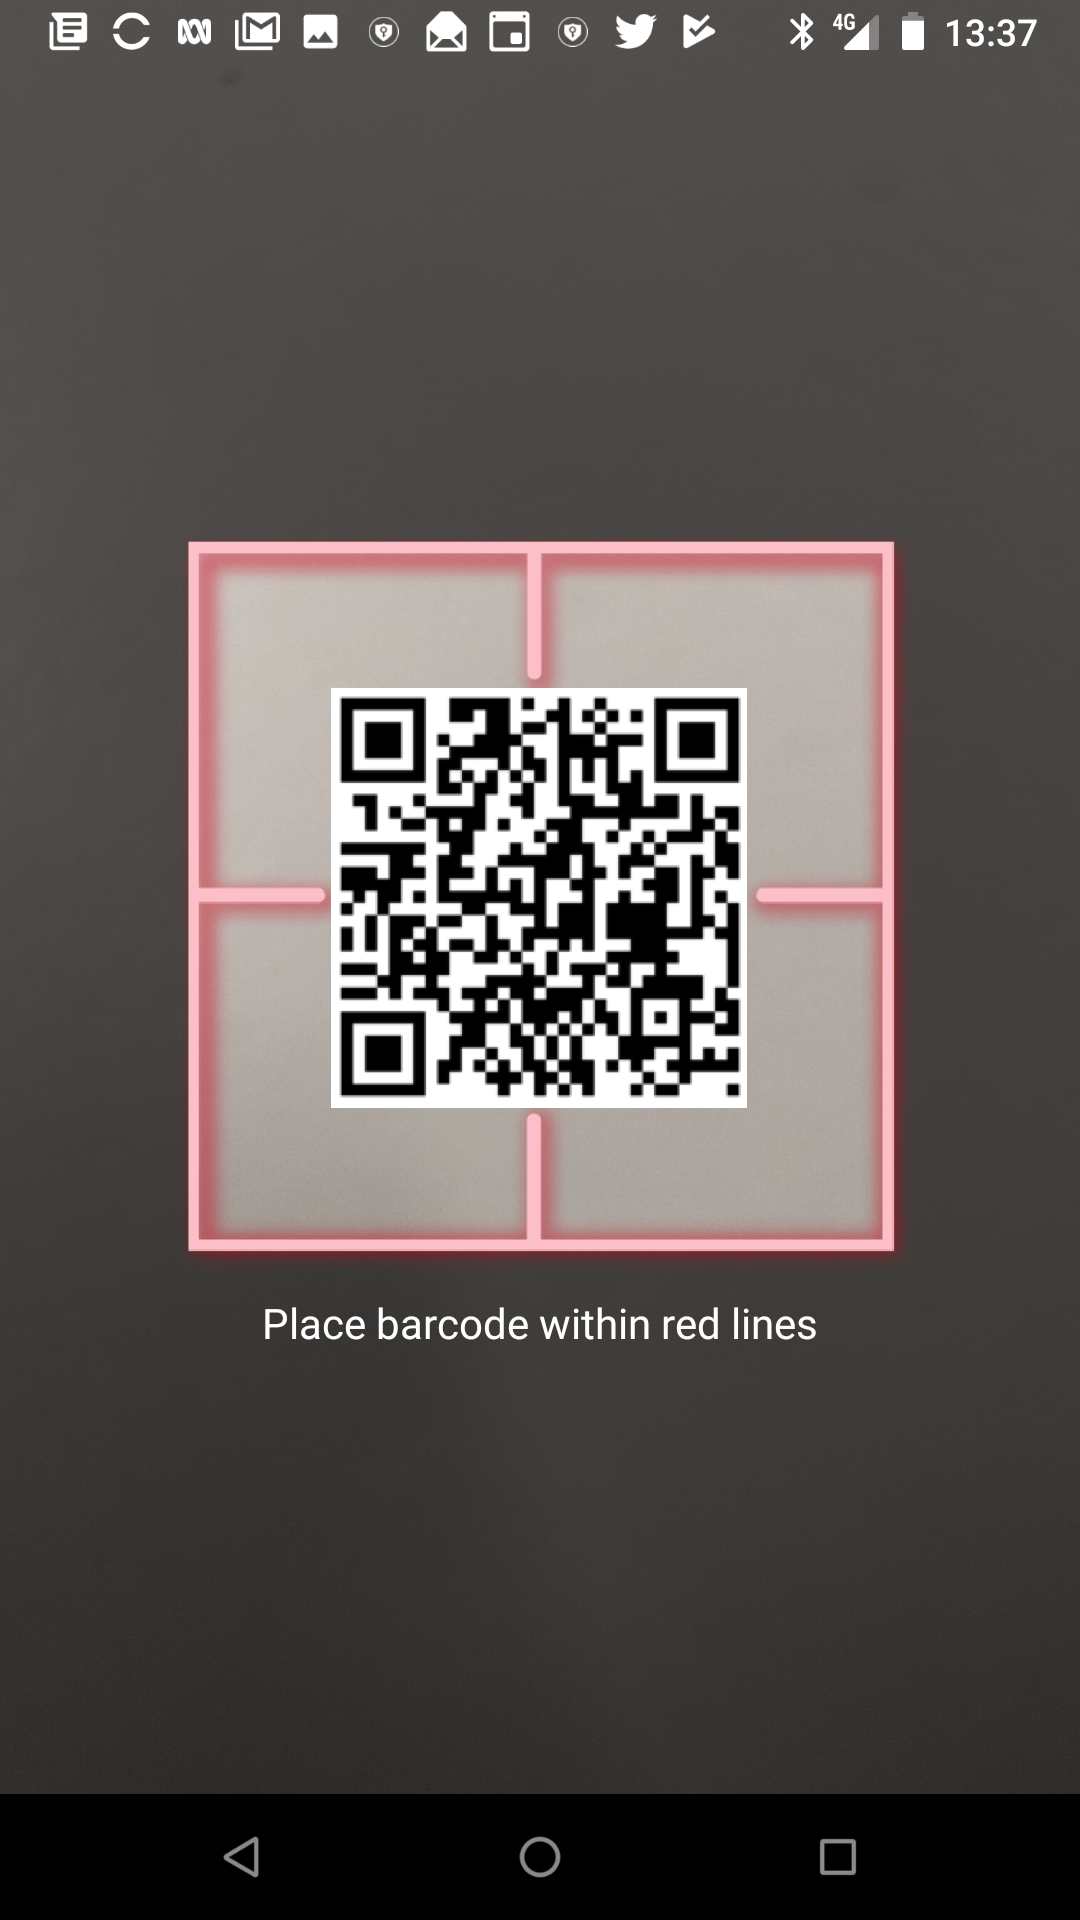
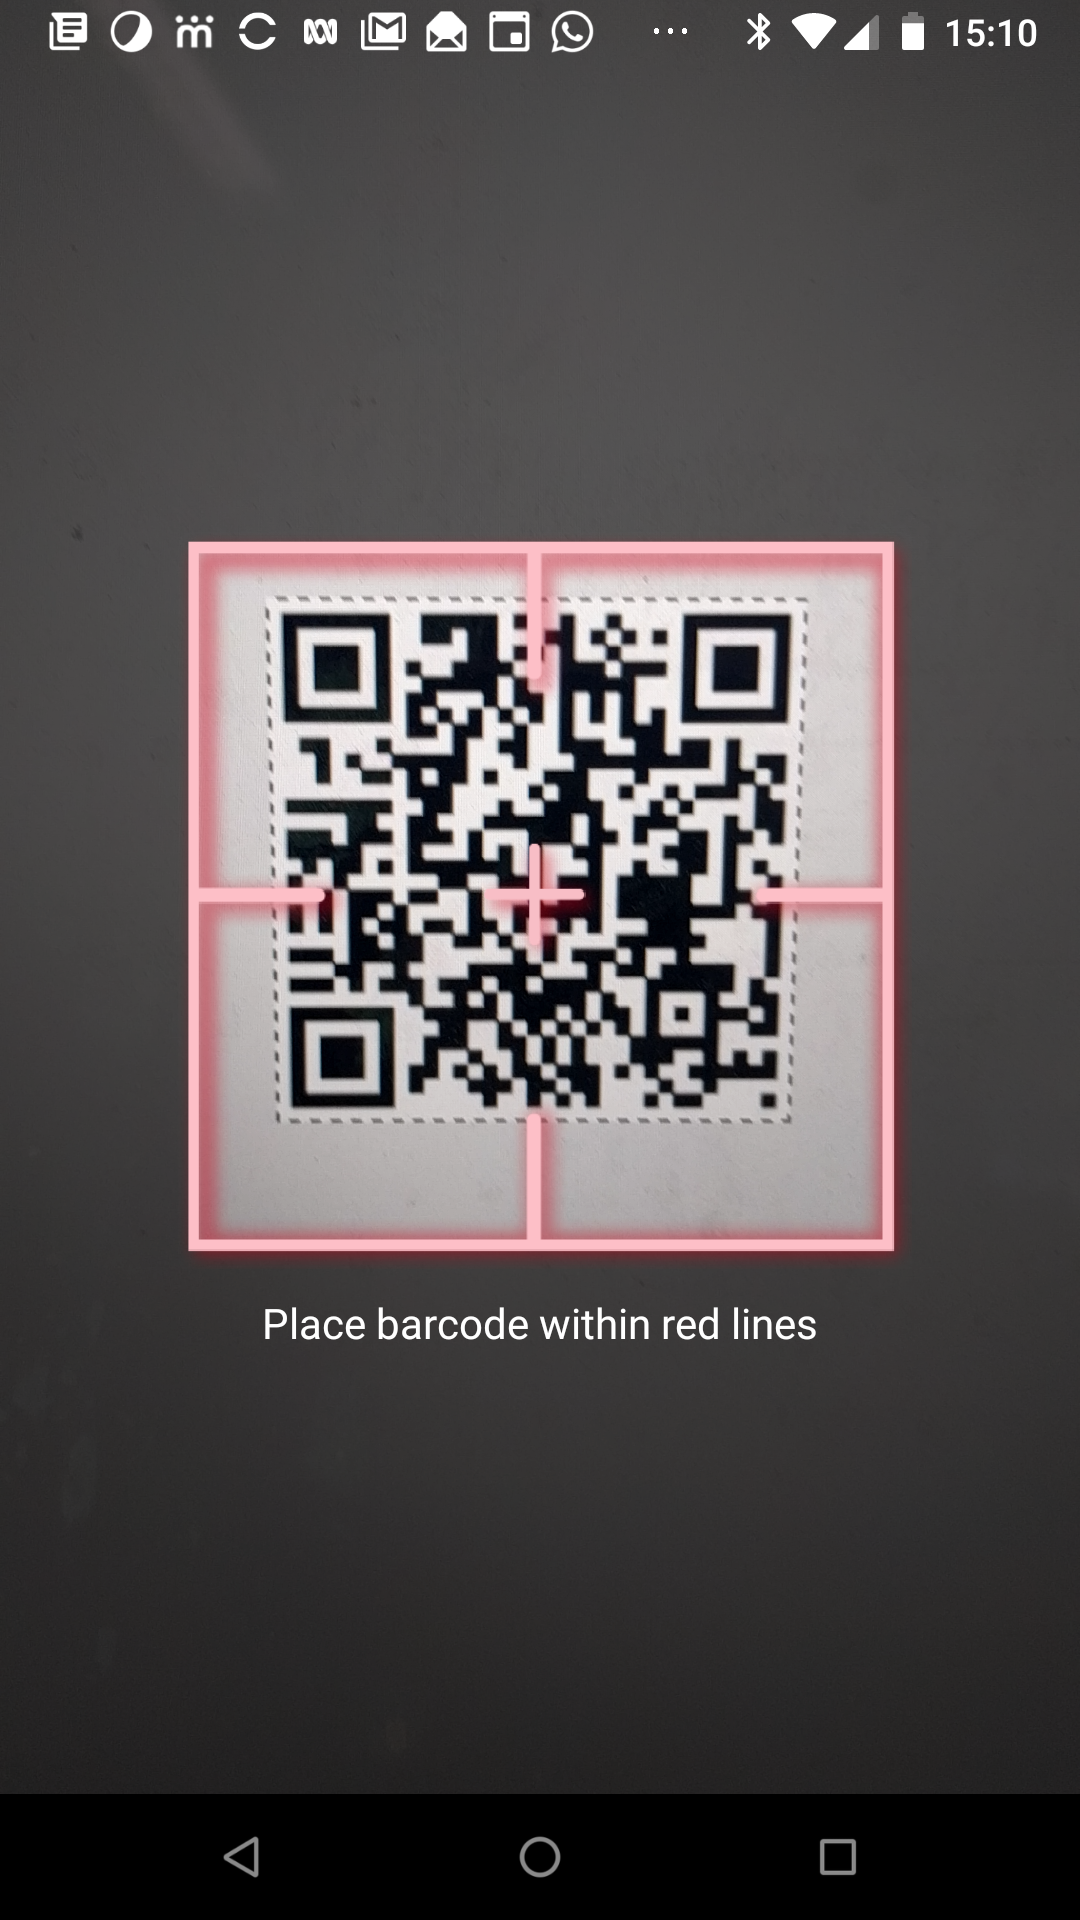
QR scanning screen shot

diff --git a/mfa.md b/mfa.md
@@ -64,17 +64,22 @@ Complete the following steps to set up your one-time passcode with an authentica
     It might take up to 5 minutes for you to be able to log back in with MFA set up after it is enabled.
 
 2. Select **Verify** on the **Verification is required** screen to set up MFA with an authenticator app.
-    ![Verify yourself to set up authenticator app](images/2-FA-Verify-01.png)
+    <!-- ![Start verification](images/2-FA-Verify-01.png) -->
+
+    <img alt="Start verification" src="images/2-FA-Verify-01.png" width="75%" />
 3. On the **Enter verification code** screen, if you have not completed the set up of your authenticator app, you will not have a verification code. To complete the set up of your authenticator app, select **Setup your authenticator app**.
-    ![Verify yourself to set up authenticator app](images/2-FA-Verify-02.png)
+    <img alt="Setup your authenticator app" src="images/2-FA-Verify-02.png" width="75%" />
 
 4.  IBM Cloud will send a 6 digit code to the email address registered with your profile. Enter the 6 digit code and click **Verify**.
-    ![Verify yourself to set up authenticator app](images/2-FA-Verify-04.png)
+    <img alt="Verify yourself to set up authenticator app" src="images/2-FA-Verify-04.png" width="75%" />
 
 5. IBM Cloud will generate a QR code. On your Google Authenticator app, select **Begin** to open the **Add account** screen and press **Scan barcode**, or press **Enter a provided key** to enter a manually provided key.
 
     _**Note:** You may need to allow the app to access your camera so it can scan the QR code. Direct your phone camera to your browser window so the QR code is in the frame. This will set up Google Authenticator with the IBM-Cloud account._
-    ![Verify yourself to set up authenticator app](images/authenticator-add-account.png)
+    <img alt="Add IBM Cloud account to Authenticator" src="images/authenticator-add-account.png" width="50%" />
+
+6. Use your smart phone to scan the QR code with the Google Authenticator app.
+    <img alt="Use Authenticator to scan the QR code" src="images/authenticator-scan-QR.png" width="50%" />
 
 7. Google Authenticator will now generate a verification code which will expire at a preset time.
 
